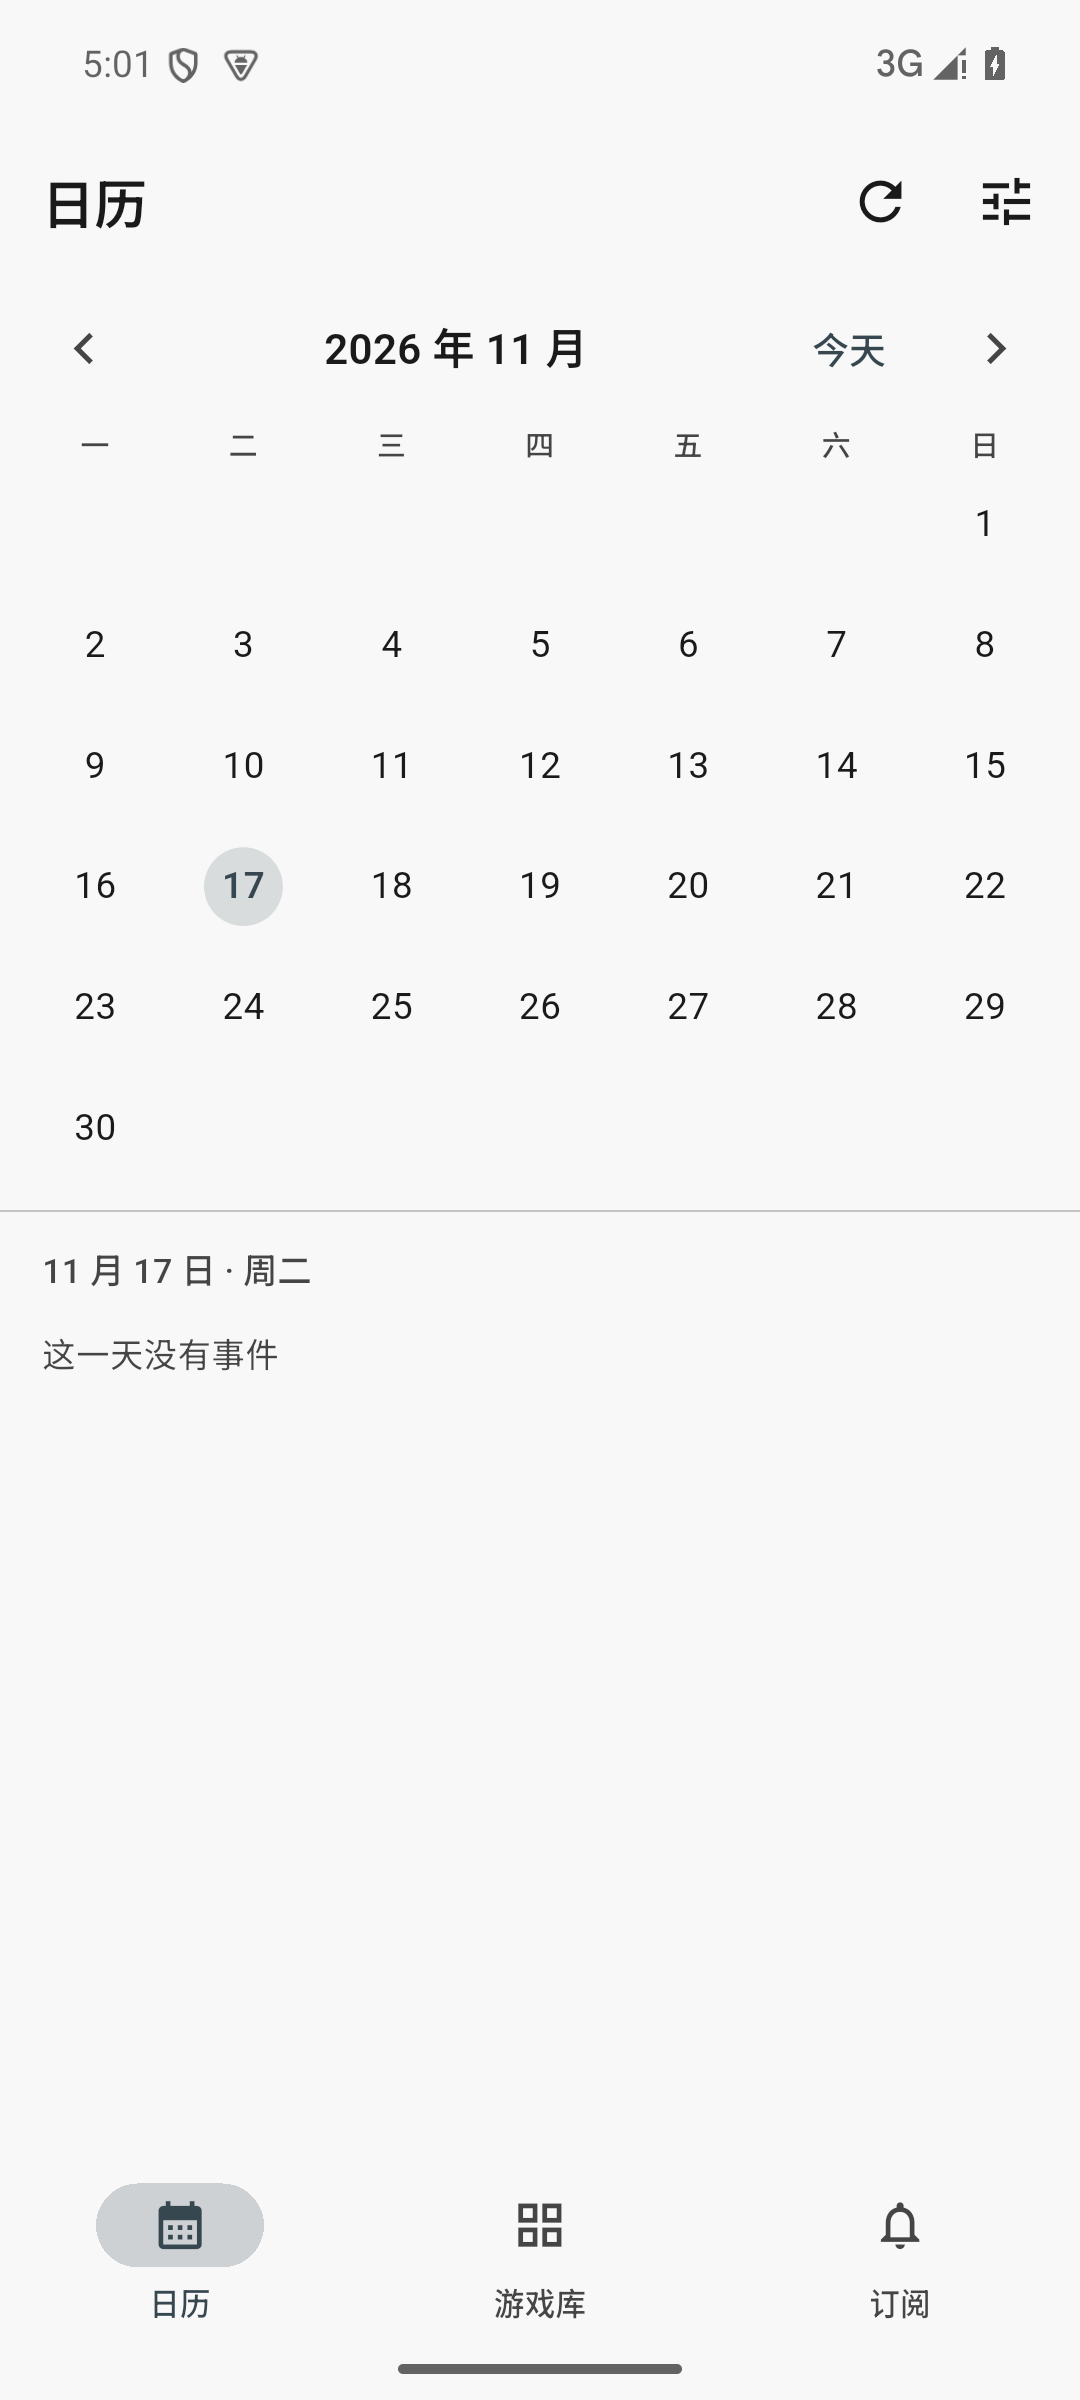
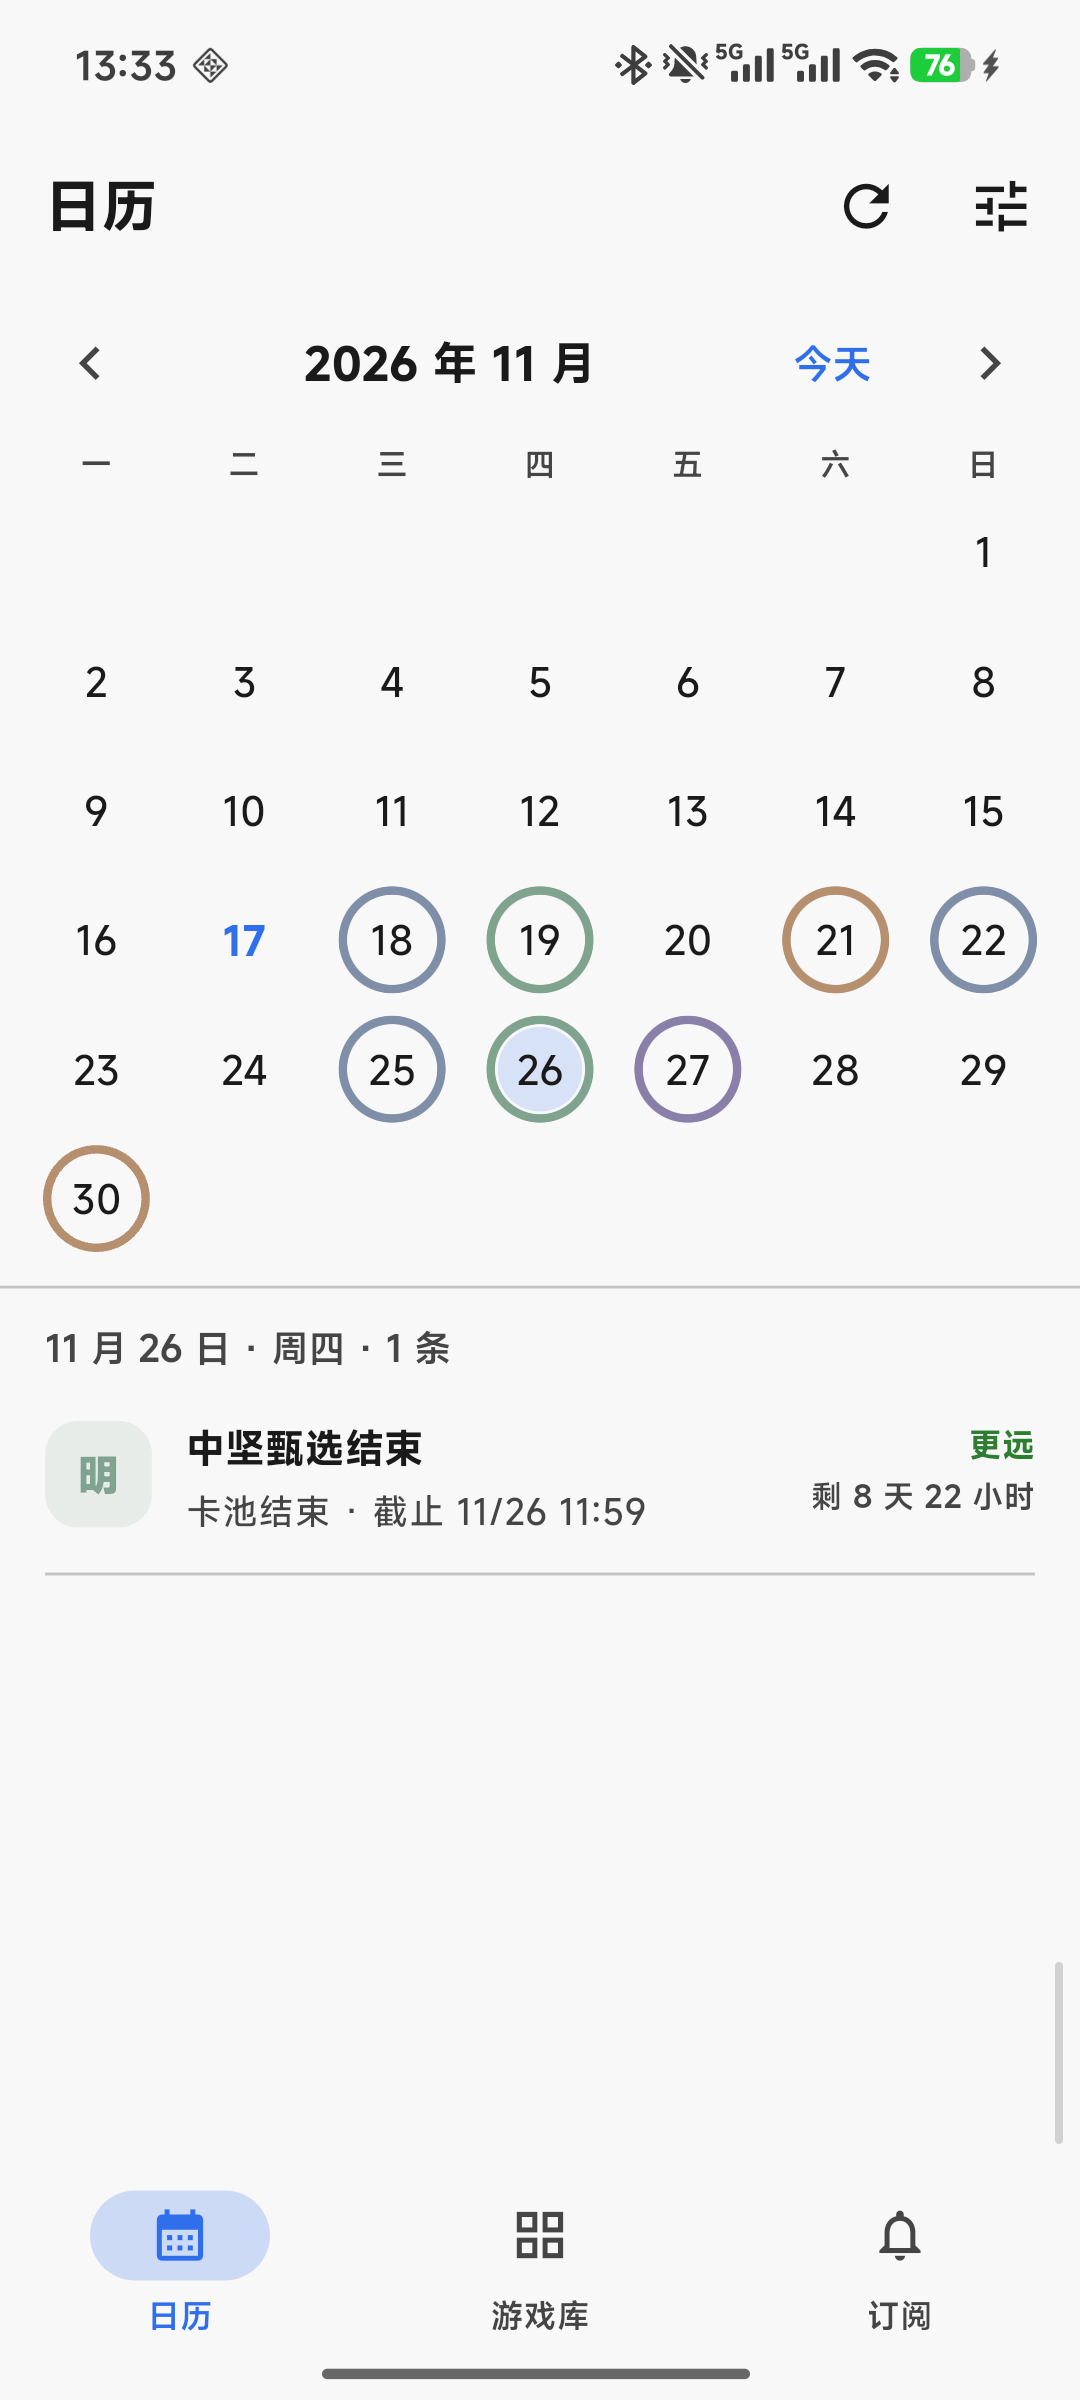
fix(app): 修复刷新崩溃与区间事件展示
2.0.4 与 2.0.5 两次修订合并提交（本地未推送）：

**2.0.4 — 刷新在第一轮就崩**
- `pub_ts` 在部分动态里是字符串，代码按 num 强转，抛
  `type 'String' is not a subtype of type 'num?'`，整个循环中断，
  表现为“98 条动态 / 入库 0 / 未通过 0”。改为 int / num / 字符串都能解析，
  模型返回的 confidence 同样容错。
- 98 条动态全部送模型又慢又贵：加预筛（正文要同时命中事件关键词与时间线索），
  单账号 ≤8 条、单轮 ≤30 条；诊断里分开给“拉取 / 预筛 / 入库”。

**2.0.5 — 区间事件与展示**
- 模型给「卡池开始 11/5 12:00 → 11/19 03:59」这类带区间的开始类事件时，
  类型写“开始”、圆环和倒计时却落在结束那天。现在拆成两条（开始 / 结束），
  结束那条的标题同步把“开启/开始”改成“结束”。
- 刷新弹窗背后会透出整段 B 站 JSON，改为 1×1 的 WebView。
- 列表行时间改紧凑写法，不再被省略号截断。
- 版本 2.0.3+5 → 2.0.5+7。

实测（真机，4 个官号）：98 条动态 → 预筛 26 条 → 入库 33 条，
4 条未通过（2 条非事件、1 条无可用时间）。

diff --git a/app/lib/screens/bili_pages.dart b/app/lib/screens/bili_pages.dart
@@ -95,6 +95,7 @@ class _BiliRefreshDialogState extends State<BiliRefreshDialog> {
   final List<String> failures = [];
   String modelLabel = '';
   int fetched = 0;
+  int rawFetched = 0;
 
   @override
   void initState() {
@@ -115,6 +116,21 @@ class _BiliRefreshDialogState extends State<BiliRefreshDialog> {
       done = d;
       total = t < 1 ? 1 : t;
     });
+  }
+
+  /// 预筛：正文里既要有事件关键词，也要有可解析的时间线索。
+  /// 不加这层的话，一个账号 24 条动态会全部送进模型，又慢又贵。
+  static bool _looksLikeEvent(String text) {
+    if (text.length < 10) return false;
+    const keywords = [
+      '活动', '维护', '版本', '兑换码', '卡池', '寻访', '祈愿', '跃迁',
+      '补偿', '前瞻', '截止', '结束', '开启', '开放', '预约',
+    ];
+    if (!keywords.any(text.contains)) return false;
+    final timeRe = RegExp(
+      r'\d{1,2}\s*月\s*\d{1,2}\s*日|\d{1,2}\s*[:：]\s*\d{2}|本周|下周|今日|明天|版本更新后|维护后',
+    );
+    return timeRe.hasMatch(text);
   }
 
   Future<void> _run() async {
@@ -142,6 +158,9 @@ class _BiliRefreshDialogState extends State<BiliRefreshDialog> {
       final games = widget.state.data?.gamesById ?? {};
       final bindings = widget.state.bindings;
       final items = <Map<String, dynamic>>[];
+      var rawFetched = 0;
+      const perAccount = 8;
+      const totalCap = 30;
 
       var index = 0;
       for (final entry in bindings.entries) {
@@ -150,10 +169,18 @@ class _BiliRefreshDialogState extends State<BiliRefreshDialog> {
         _progress('拉取 $name 的动态（$index/${bindings.length}）', index - 1, bindings.length);
         try {
           final list = await BiliService.fetchSpace(controller, entry.value, pages: 2);
+          rawFetched += list.length;
+
+          // 预筛：同一账号只送“看得出是事件”的前 8 条，98 条全送模型又慢又贵
+          var picked = 0;
           for (final item in list) {
+            if (picked >= perAccount || items.length >= totalCap) break;
+            final text = BiliService.dynamicsText(item);
+            if (!_looksLikeEvent(text)) continue;
             items.add({...item, '_game': entry.key, '_name': name});
+            picked++;
           }
-          log.add('$name：${list.length} 条动态');
+          log.add('$name：${list.length} 条动态，$picked 条进入解析');
         } catch (e) {
           final reason = '$e'.split('\n').first;
           log.add('$name：拉取失败 $reason');
@@ -162,6 +189,7 @@ class _BiliRefreshDialogState extends State<BiliRefreshDialog> {
         await Future<void>.delayed(const Duration(milliseconds: 1200));
       }
       fetched = items.length;
+      this.rawFetched = rawFetched;
 
       if (items.isEmpty) {
         _finish('没有拉到动态');
@@ -197,23 +225,41 @@ class _BiliRefreshDialogState extends State<BiliRefreshDialog> {
           fetchedAt: now,
         );
         // 游戏以绑定关系为准（模型判错时仍归到你绑的那个号）
-        events[event.id] = GameEvent(
-          id: event.id,
-          gameId: gameId,
-          type: event.type,
-          title: event.title,
-          start: event.start,
-          end: event.end,
-          status: event.status,
-          confidence: event.confidence,
-          summary: event.summary,
-          fetchedAt: event.fetchedAt,
-          sourceName: event.sourceName,
-          sourceUrl: event.sourceUrl,
-          version: event.version,
-          tags: event.tags,
-          revisions: const [],
-        );
+        GameEvent build({required String type, DateTime? start, DateTime? end, String? title}) => GameEvent(
+              id: event.id,
+              gameId: gameId,
+              type: type,
+              title: title ?? event.title,
+              start: start,
+              end: end,
+              status: event.status,
+              confidence: event.confidence,
+              summary: event.summary,
+              fetchedAt: event.fetchedAt,
+              sourceName: event.sourceName,
+              sourceUrl: event.sourceUrl,
+              version: event.version,
+              tags: event.tags,
+              revisions: const [],
+            );
+
+        // 有起止区间的“开始类”事件拆成两条：开始一条、结束一条。
+        // 否则类型写着“开始”，圆环和倒计时却落在结束那天，读起来是矛盾的。
+        final isStartType = event.type == '活动开始' || event.type == '卡池开始';
+        if (isStartType && event.start != null && event.end != null) {
+          final closeType = event.type == '活动开始' ? '活动结束' : '卡池结束';
+          // 标题也跟着改，否则会出现「中坚甄选开启」配「卡池结束」的别扭组合
+          String closeTitle(String raw) {
+            if (raw.contains('开启')) return raw.replaceAll('开启', '结束');
+            if (raw.contains('开始')) return raw.replaceAll('开始', '结束');
+            return '$raw（截止）';
+          }
+
+          events['${event.id}-start'] = build(type: event.type, start: event.start);
+          events['${event.id}-end'] = build(type: closeType, end: event.end, title: closeTitle(event.title));
+        } else {
+          events[event.id] = build(type: event.type, start: event.start, end: event.end);
+        }
       }
 
       added = events.length;
@@ -244,7 +290,7 @@ class _BiliRefreshDialogState extends State<BiliRefreshDialog> {
       ..writeln('时间：${DateTime.now().toIso8601String()}')
       ..writeln('模型：$modelLabel')
       ..writeln('结果：$message')
-      ..writeln('动态 $fetched 条 / 入库 $added 条 / 未通过 ${failures.length} 条');
+      ..writeln('动态 $rawFetched 条 / 预筛 $fetched 条 / 入库 $added 条 / 未通过 ${failures.length} 条');
     if (log.isNotEmpty) {
       buf.writeln('--- 拉取 ---');
       for (final line in log) {
@@ -267,9 +313,17 @@ class _BiliRefreshDialogState extends State<BiliRefreshDialog> {
       color: Colors.black.withValues(alpha: 0.35),
       child: Stack(
         children: [
-          Positioned.fill(
+          // B 站这边取的是接口 JSON，不依赖视口尺寸；给 1×1 就够执行 JS，
+          // 也免得把一大段原始 JSON 铺在弹窗背后。
+          Positioned(
+            left: 0,
+            top: 0,
             child: IgnorePointer(
-              child: Opacity(opacity: 0.3, child: WebViewWidget(controller: controller)),
+              child: SizedBox(
+                width: 1,
+                height: 1,
+                child: WebViewWidget(controller: controller),
+              ),
             ),
           ),
           Center(

diff --git a/app/lib/services/bili_service.dart b/app/lib/services/bili_service.dart
@@ -143,10 +143,18 @@ class BiliService {
     return author['name'] as String? ?? '官方';
   }
 
+  /// B 站同一个字段有时是 num、有时是字符串，统一用这个取
+  static int? asInt(dynamic value) {
+    if (value is int) return value;
+    if (value is num) return value.toInt();
+    if (value is String) return int.tryParse(value.trim());
+    return null;
+  }
+
   static DateTime publishedAtOf(Map<String, dynamic> item) {
     final modules = (item['modules'] as Map?)?.cast<String, dynamic>() ?? const {};
     final author = (modules['module_author'] as Map?)?.cast<String, dynamic>() ?? const {};
-    final ts = (author['pub_ts'] as num?)?.toInt();
+    final ts = asInt(author['pub_ts']);
     if (ts != null && ts > 0) return DateTime.fromMillisecondsSinceEpoch(ts * 1000);
     return DateTime.now();
   }

diff --git a/app/lib/format.dart b/app/lib/format.dart
@@ -95,3 +95,11 @@ String weekdayLabelOf(String key) {
   const names = ['一', '二', '三', '四', '五', '六', '日'];
   return '周${names[dt.weekday - 1]}';
 }
+/// 行内用的紧凑写法：`11/5 12:00 → 11/19 03:59`
+String eventRangeShort(DateTime? start, DateTime? end) {
+  String stamp(DateTime d) => '${shortDate(d)} ${hm(d)}';
+  if (start != null && end != null) return '${stamp(start)} → ${stamp(end)}';
+  if (start != null) return '${stamp(start)} 开始';
+  if (end != null) return '截止 ${stamp(end)}';
+  return '—';
+}

diff --git a/app/lib/widgets.dart b/app/lib/widgets.dart
@@ -197,7 +197,7 @@ class EventRow extends StatelessWidget {
                   ),
                   const SizedBox(height: 3),
                   Text(
-                    '${event.type} · ${eventRange(event.start, event.end)}',
+                    '${event.type} · ${eventRangeShort(event.start, event.end)}',
                     maxLines: 1,
                     overflow: TextOverflow.ellipsis,
                     style: theme.textTheme.bodySmall,

diff --git a/app/lib/services/llm_normalizer.dart b/app/lib/services/llm_normalizer.dart
@@ -197,7 +197,11 @@ $text
       if (tags.length >= 5) break;
     }
 
-    final confidence = ((json['confidence'] as num?)?.toInt() ?? 70).clamp(0, 100);
+    final rawConfidence = json['confidence'];
+    final confidence = (rawConfidence is num
+            ? rawConfidence.toInt()
+            : int.tryParse('$rawConfidence') ?? 70)
+        .clamp(0, 100);
 
     return LlmOutcome(
       event: NormalizedEvent(

diff --git a/CHANGELOG.md b/CHANGELOG.md
@@ -3,6 +3,25 @@
 格式遵循 [Keep a Changelog](https://keepachangelog.com/zh-CN/1.1.0/)；版本号与 `app/pubspec.yaml` 同源。
 分类只用：新增 / 变更 / 修复 / 移除。
 
+## [2.0.5] - 2026-11-17
+
+### 修复
+- **区间事件类型与位置矛盾**：模型给「卡池开始 11/5 12:00 → 11/19 03:59」这种带区间的开始类事件时，
+  类型写着“开始”，圆环和倒计时却落在结束那天。现在把这类区间拆成两条：开始一条、结束一条。
+- 刷新弹窗背后会透出整段 B 站接口 JSON（WebView 以 30% 透明度铺满屏幕）。B 站取的是接口 JSON、
+  不依赖视口尺寸，改为 1×1 尺寸，弹窗背后干净了。
+- 列表行的时间用紧凑写法（11/5 12:00 → 11/19 03:59），不再被省略号截断。
+- 拆分出来的“结束”事件，标题里的“开启/开始”同步改成“结束”，不再出现
+  「中坚甄选开启」配「卡池结束」这种别扭组合。
+## [2.0.4] - 2026-11-17
+
+### 修复
+- **刷新在第一轮就崩**：`pub_ts` 在部分动态里是字符串，代码按 `num` 强转，抛
+  `type 'String' is not a subtype of type 'num?'`，整个循环直接中断，表现为
+  “98 条动态 / 入库 0 / 未通过 0”。改为容错取数（int / num / 字符串都能解析），
+  模型返回的 `confidence` 同样容错。
+- **98 条动态全部送模型**：新增预筛——正文必须同时命中事件关键词与时间线索才进解析，
+  单账号最多 8 条、单轮最多 30 条；诊断里分别给出“拉取 / 预筛 / 入库”三个数。
 ## [2.0.3] - 2026-11-17
 
 ### 修复

diff --git a/README.md b/README.md
@@ -4,7 +4,7 @@
 
 > **一句话**：卡池结束、活动关闭、兑换码过期、补偿领取截止——一个页面看全，到期前提醒你。
 
-**当前版本：2.0.3**（见 [CHANGELOG.md](CHANGELOG.md)）
+**当前版本：2.0.5**（见 [CHANGELOG.md](CHANGELOG.md)）
 
 ## 仓库结构
 
